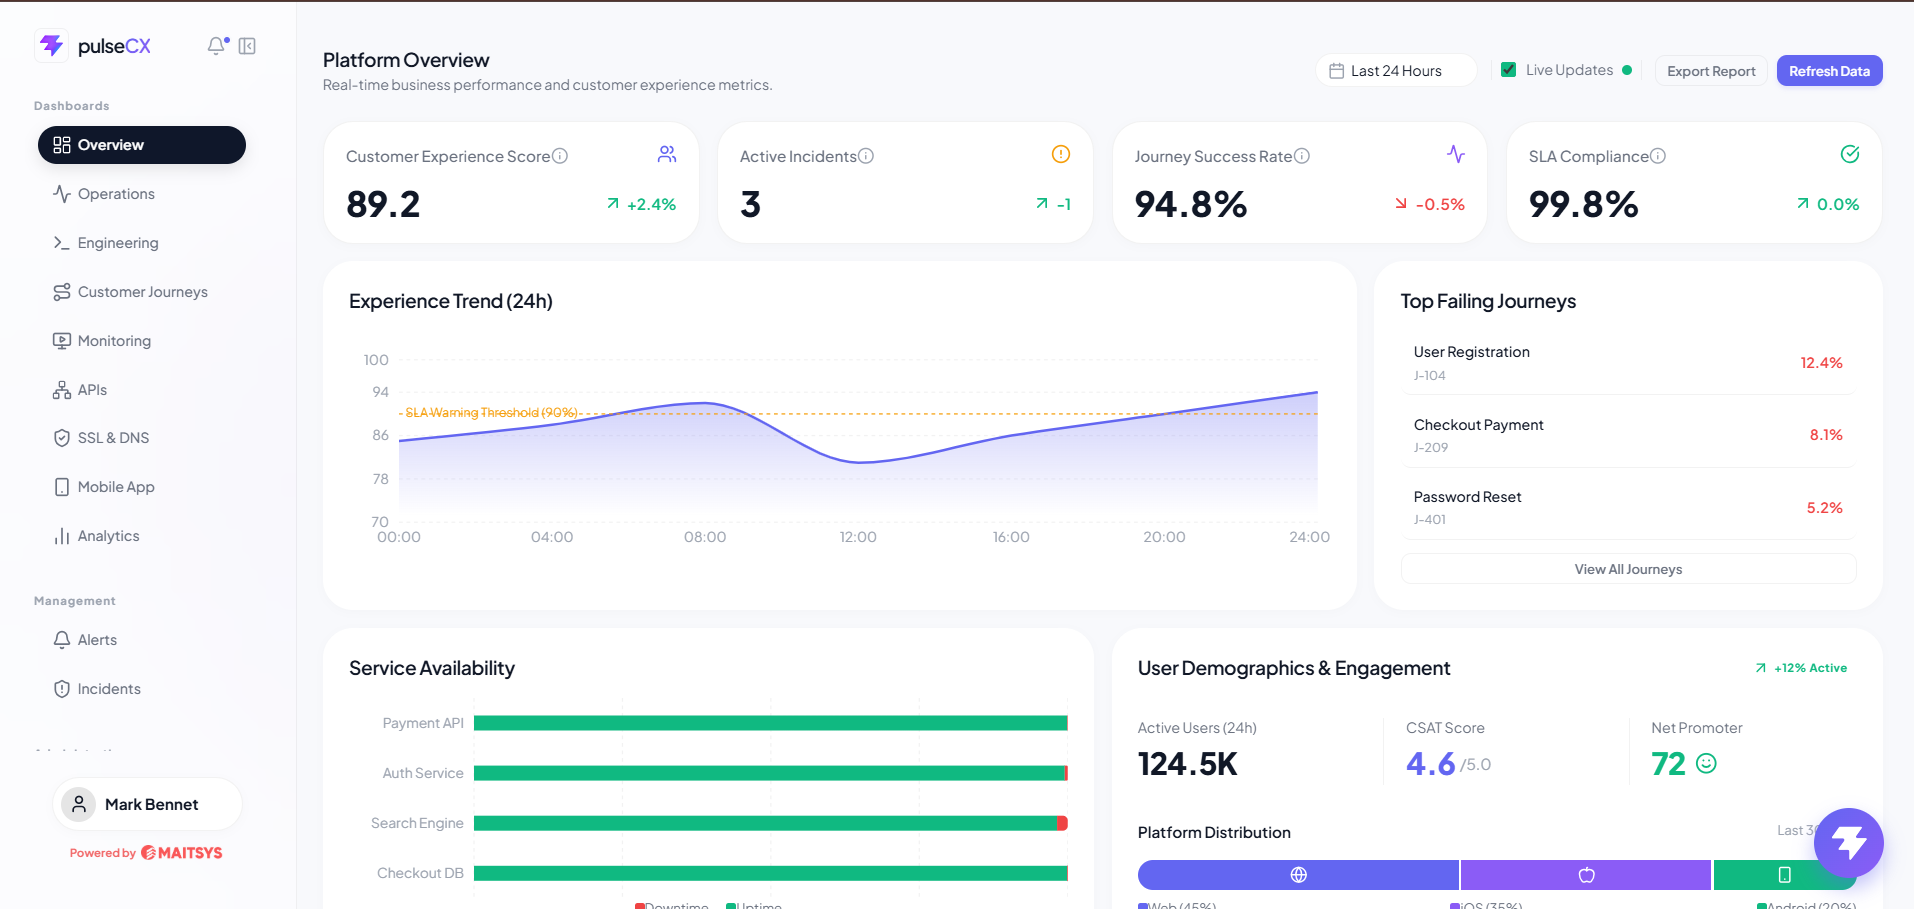
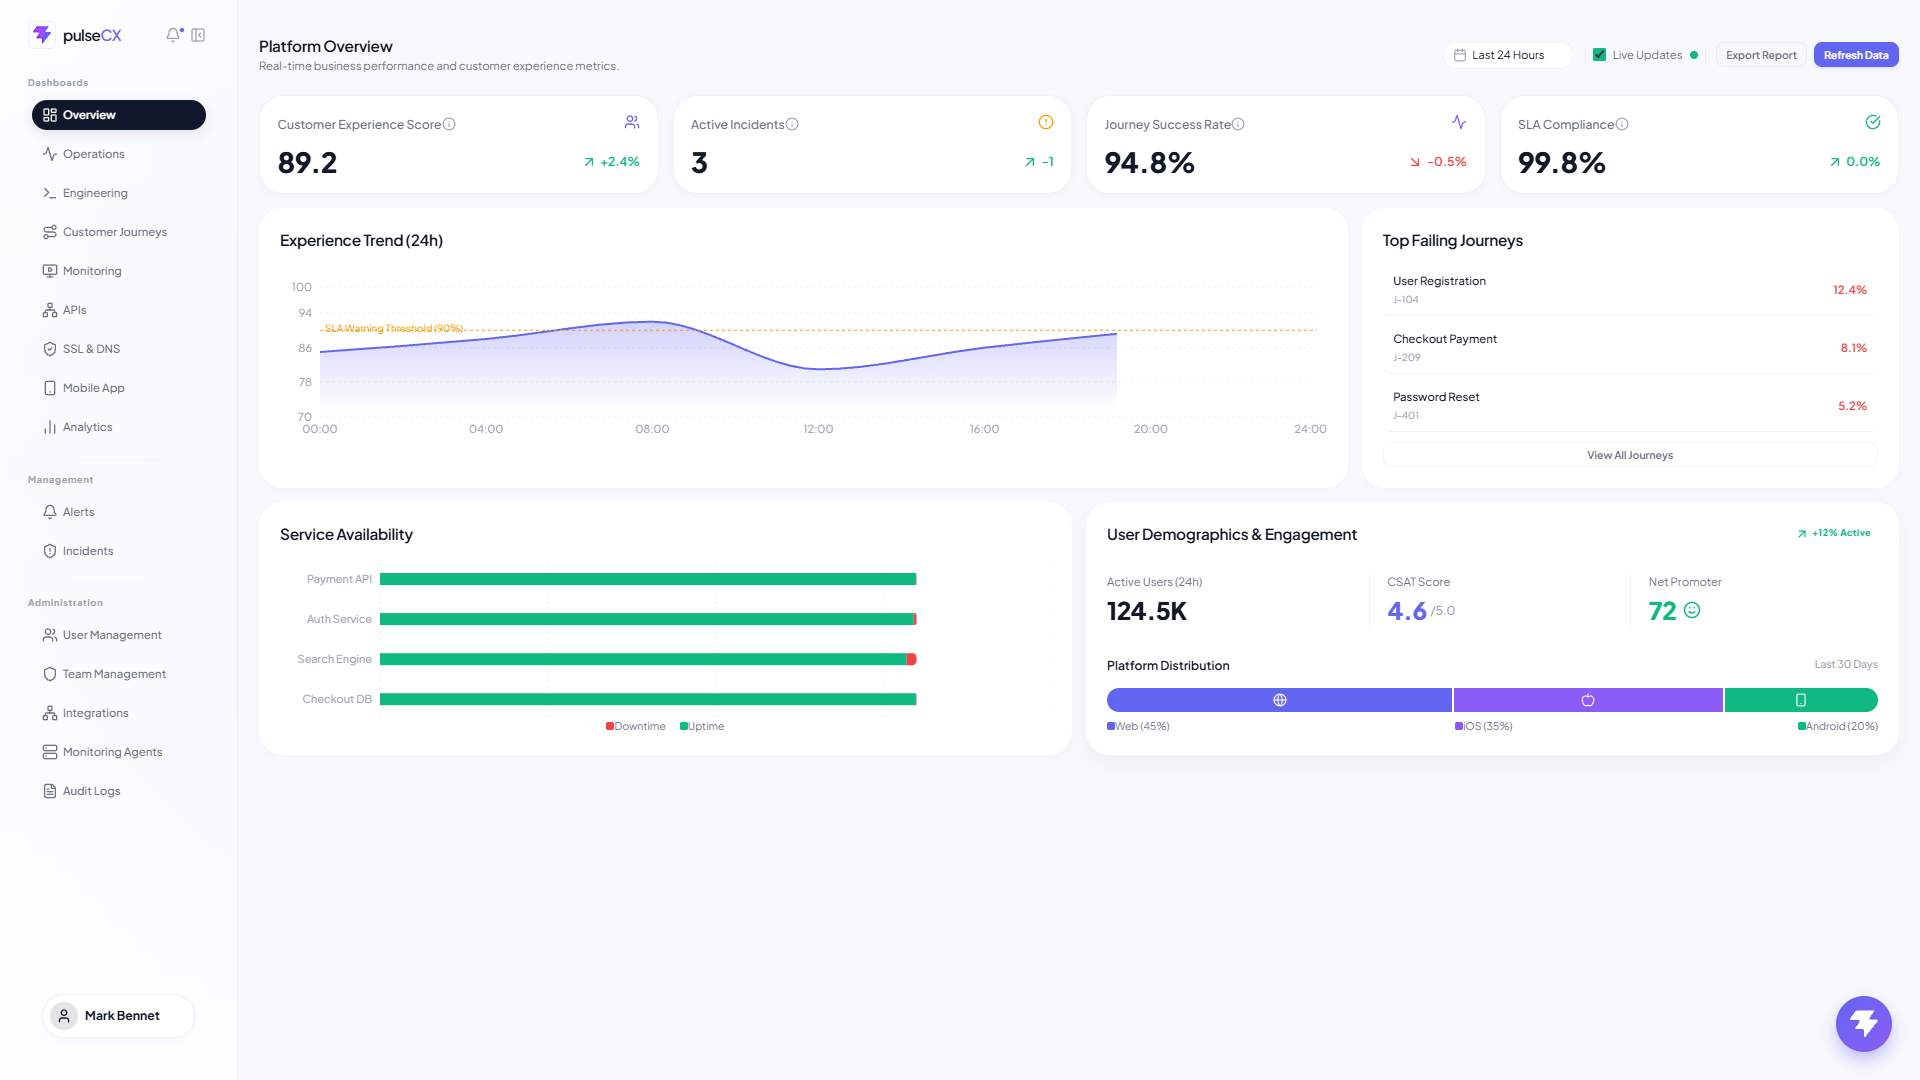
remove mait

diff --git a/capture_screenshots.js b/capture_screenshots.js
@@ -1,0 +1,41 @@
+import puppeteer from 'puppeteer';
+
+(async () => {
+  const artifactDir = 'C:\\\\Users\\\\vishw\\\\.gemini\\\\antigravity-ide\\\\brain\\\\c4fb94b6-1c0a-4216-8861-99169cbc0041';
+  const browser = await puppeteer.launch({ headless: "new" });
+  const page = await browser.newPage();
+  await page.setViewport({ width: 1280, height: 800 });
+
+  console.log('Navigating to login...');
+  await page.goto('http://localhost:5174/login', { waitUntil: 'networkidle0' });
+  
+  console.log('Logging in...');
+  await page.type('input[type="email"]', '[email redacted]');
+  await page.type('input[type="password"]', 'admin123');
+  await page.click('button[type="submit"]');
+  
+  // Wait a bit for the react router navigation to happen
+  await new Promise(r => setTimeout(r, 2000));
+  console.log('Logged in successfully.');
+
+  const pages = [
+    { route: '/administration/teams', name: 'team_management.png' },
+    { route: '/administration/integrations', name: 'integrations.png' },
+    { route: '/administration/agents', name: 'agents.png' },
+    { route: '/administration/audit', name: 'audit_log.png' }
+  ];
+
+  for (const p of pages) {
+    console.log(`Navigating to ${p.route}...`);
+    await page.evaluate((r) => window.navigateRoute(r), p.route);
+    
+    // Give it a delay for the page to render completely
+    await new Promise(r => setTimeout(r, 2000));
+    
+    await page.screenshot({ path: `${artifactDir}\\\\${p.name}` });
+    console.log(`Saved ${p.name}`);
+  }
+
+  await browser.close();
+  console.log('Done.');
+})();

diff --git a/src/components/Sidebar.jsx b/src/components/Sidebar.jsx
@@ -218,11 +218,7 @@ export default function Sidebar({ setIsSearchOpen }) {
           )}
         </div>
 
-        {!isCollapsed && (
-          <div style={{ display: 'flex', alignItems: 'center', justifyContent: 'center', gap: '4px', fontSize: '0.65rem', fontWeight: '700', color: 'var(--accent-danger)', opacity: 0.8 }}>
-            Powered by <img src="/maitsys-logo.png" alt="maitsys" style={{ height: '12px', objectFit: 'contain' }} />
-          </div>
-        )}
+
       </div>
     </aside>
   );

diff --git a/src/pages/LoginPage.jsx b/src/pages/LoginPage.jsx
@@ -99,11 +99,11 @@ export default function LoginPage() {
         {/* Bottom Text */}
         <div style={{ zIndex: 2 }}>
           <h1 style={{ 
-            fontSize: '4rem', 
+            fontSize: '5.5rem', 
             lineHeight: '1.1', 
             fontWeight: '600', 
             marginBottom: '1rem',
-            maxWidth: '500px',
+            maxWidth: '600px',
             background: 'linear-gradient(135deg, #7c3aed 0%, #2563eb 100%)',
             WebkitBackgroundClip: 'text',
             WebkitTextFillColor: 'transparent',